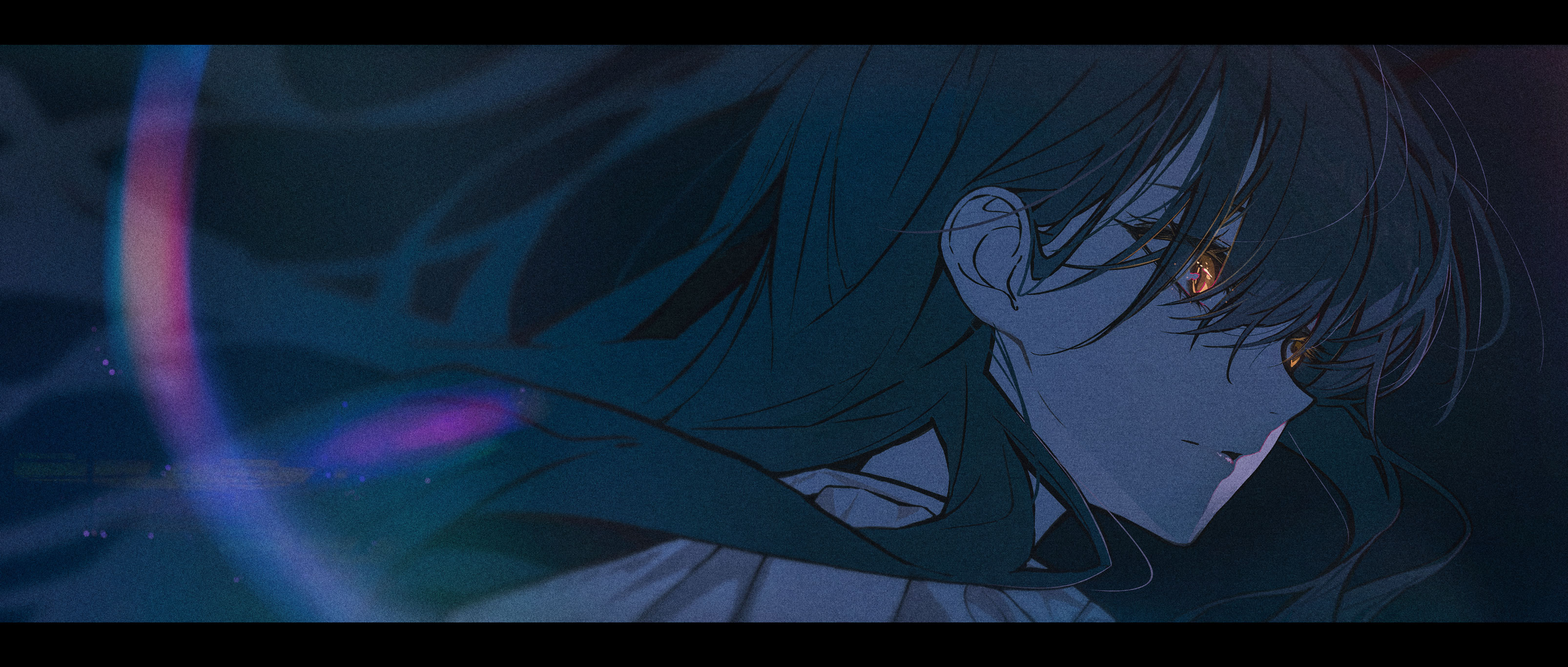
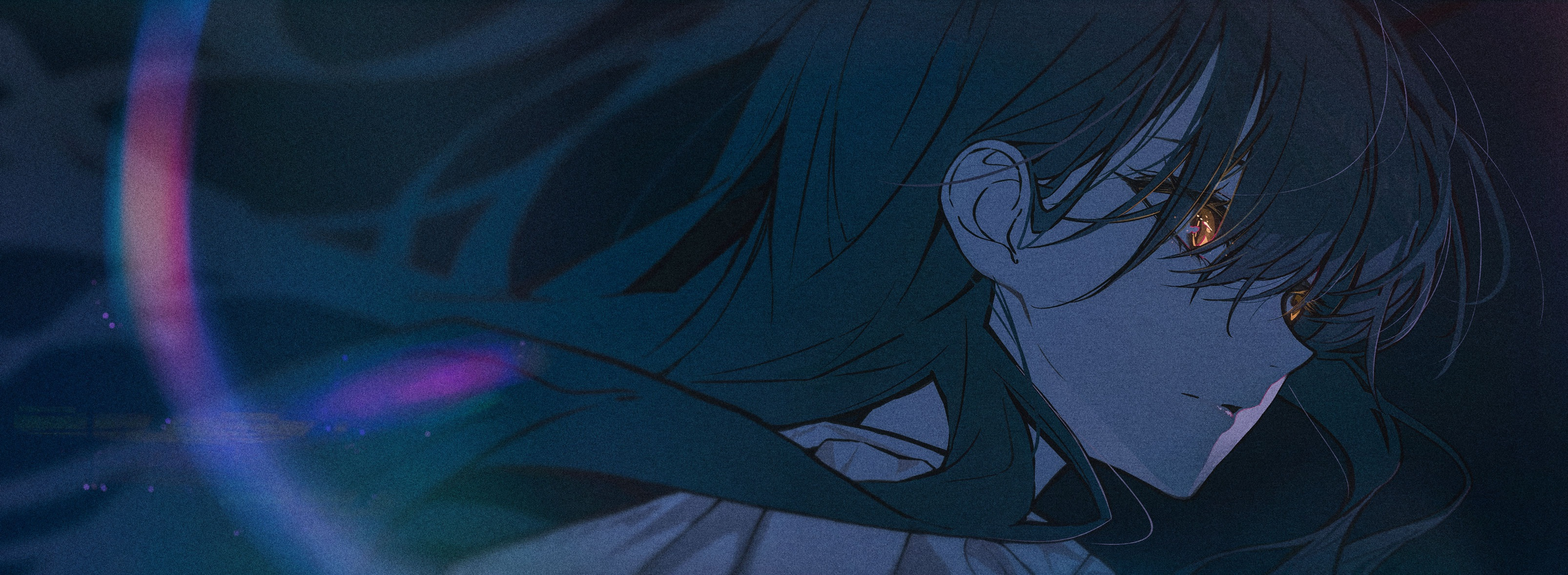
content(about): update cropped hero image, fix height prop 1367 -> 1178

diff --git a/app/about/page.tsx b/app/about/page.tsx
@@ -13,7 +13,7 @@ export default function AboutPage() {
           src="/images/site/about-hero.jpg"
           alt="embrace"
           width={3212}
-          height={1367}
+          height={1178}
           className="w-full h-auto rounded-lg ring-1 ring-border"
           priority
           quality={90}
